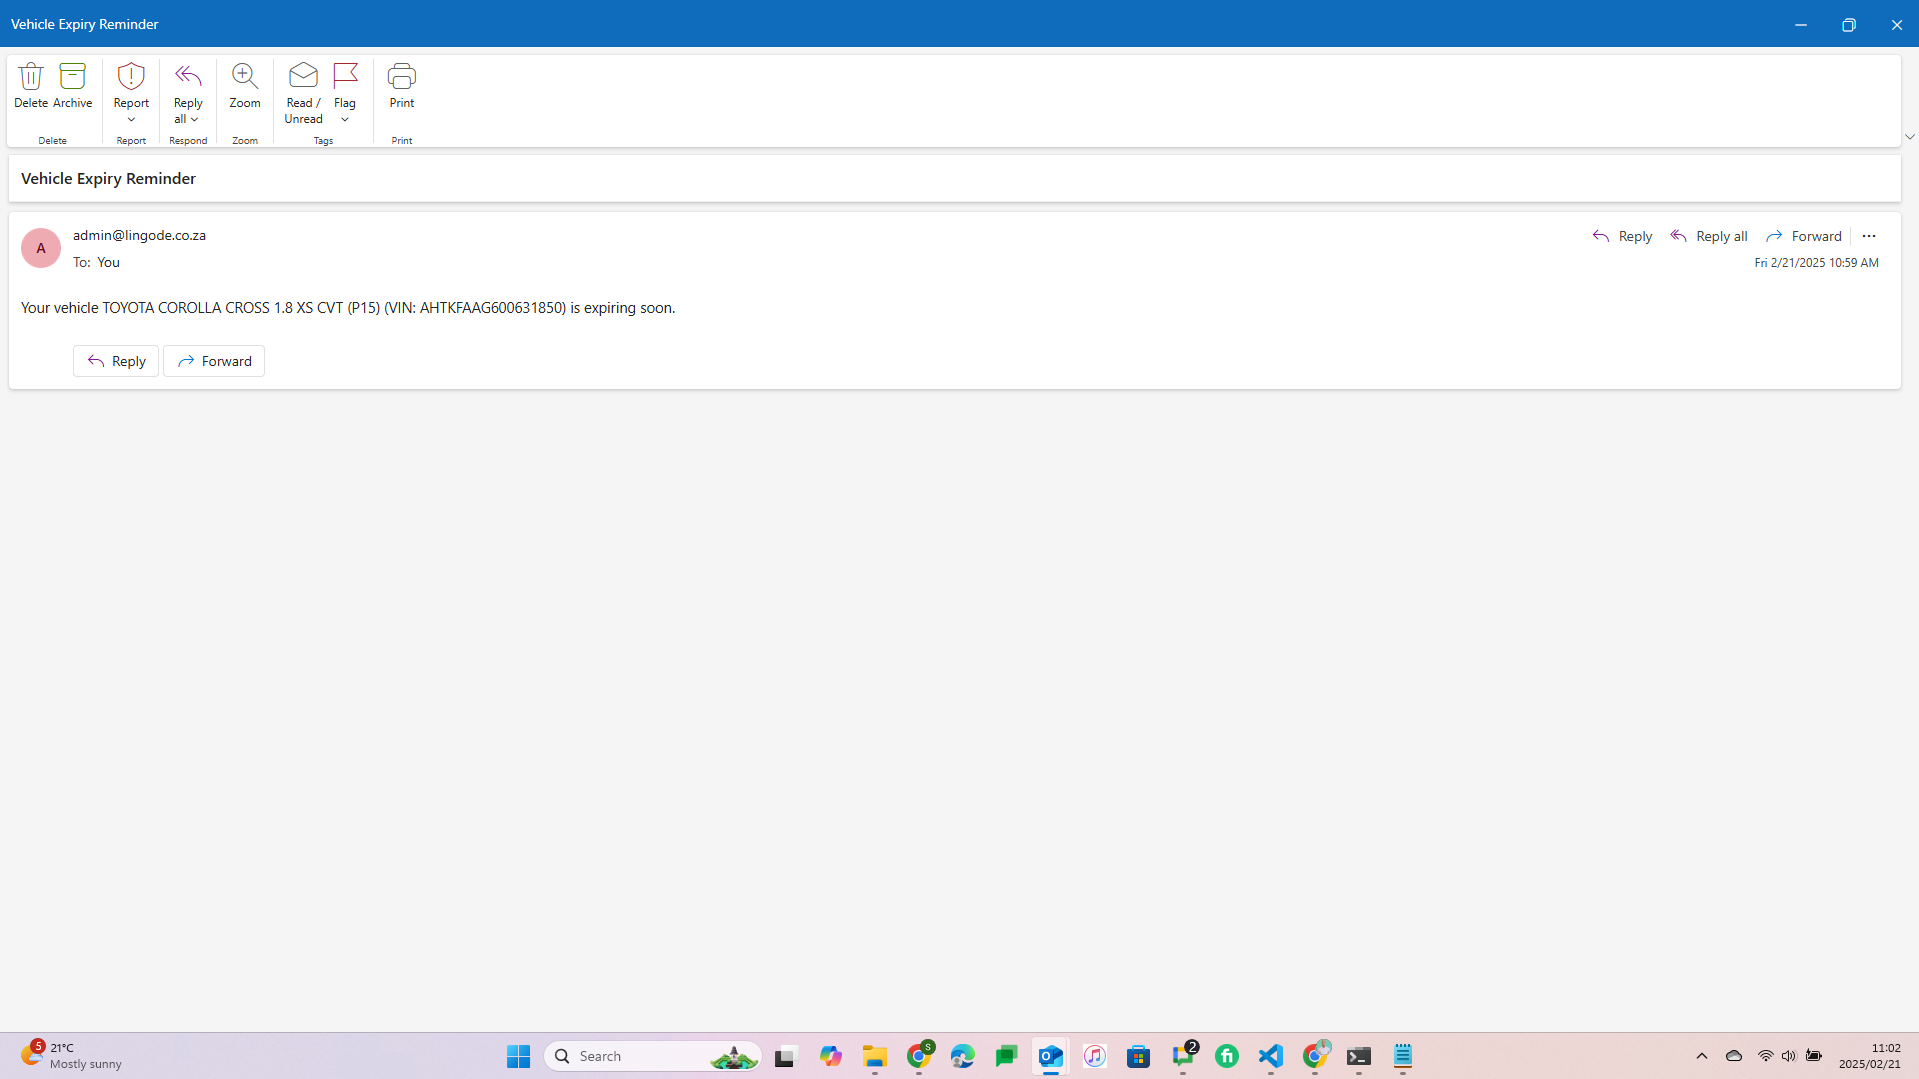
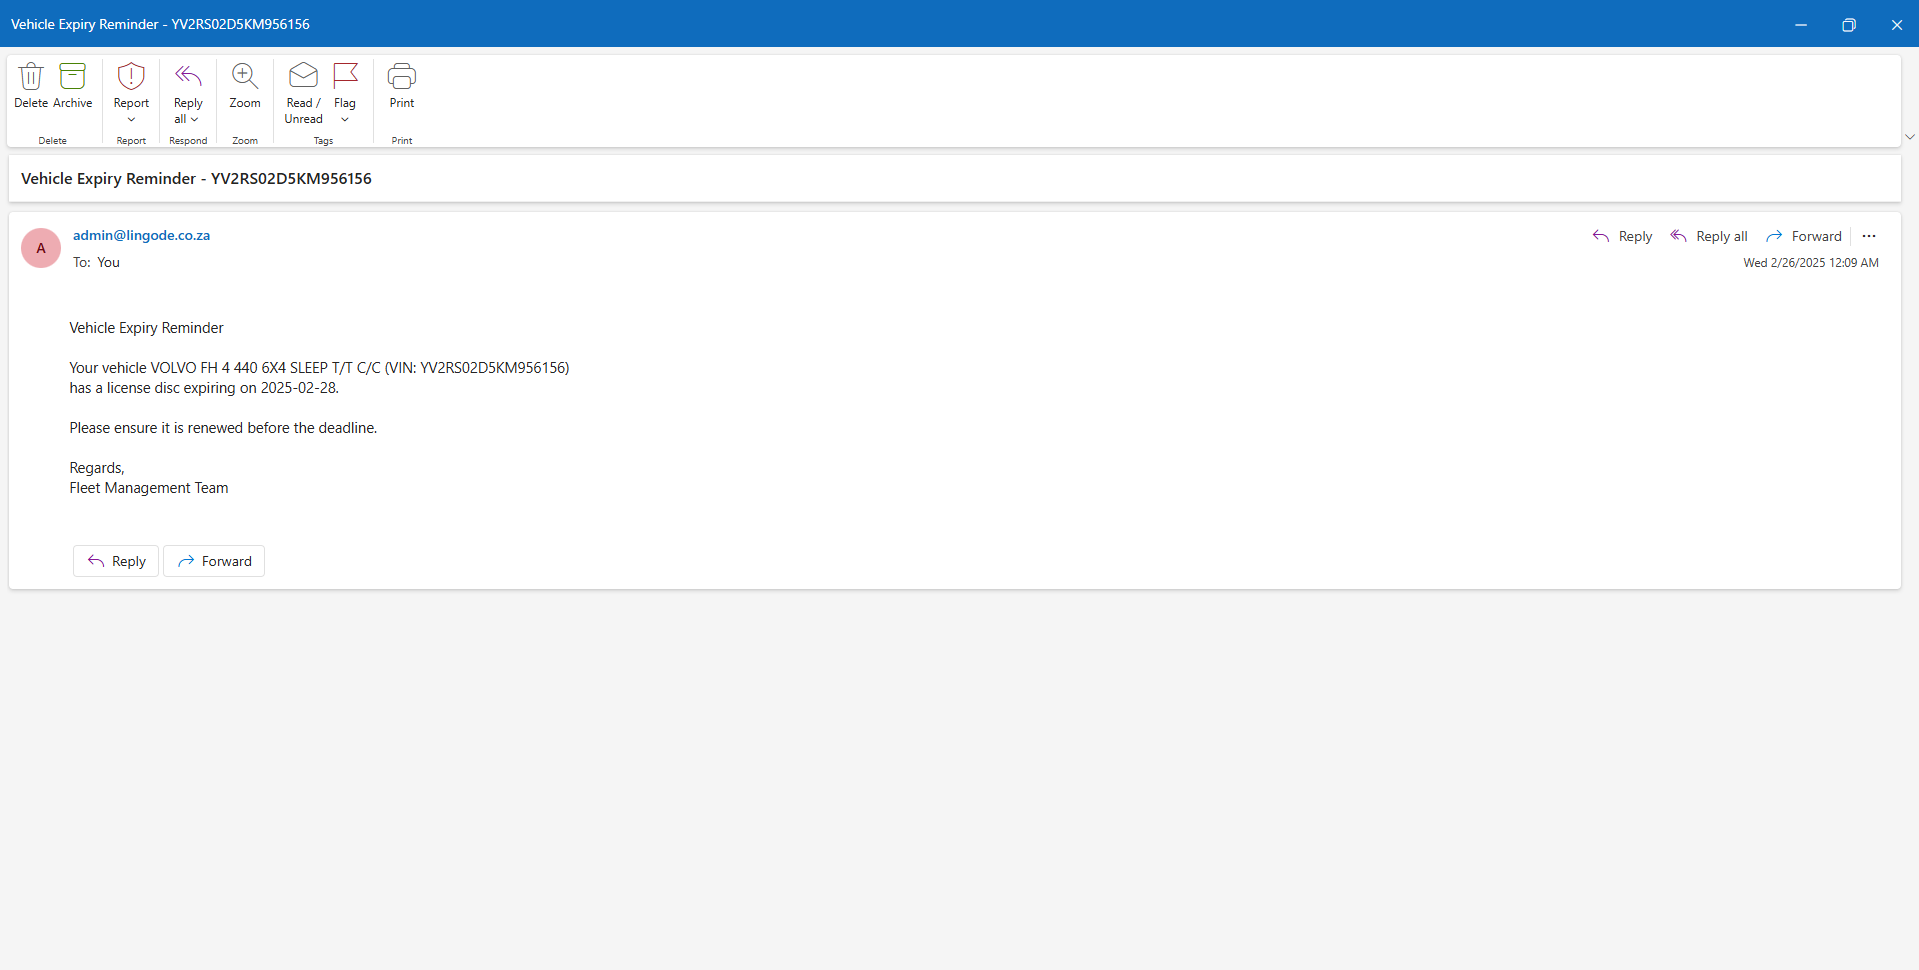
Enhanced reminder email

diff --git a/fleet_manager/tasks.py b/fleet_manager/tasks.py
@@ -1,21 +1,35 @@
 from django.utils.timezone import now
 from django_q.tasks import schedule
 from django.core.mail import send_mail
-from fleet_manager.models import Asset
+from fleet_manager.models import Asset, LicensingDetails
 from datetime import timedelta
 
 
 def send_vehicle_expiry_reminder():
-    # Get assets expiring in 7 days
-    expiring_assets = Asset.objects.filter(
-        purchasedetails__disc_expiry_date__isnull=False,
-        purchasedetails__disc_expiry_date__lte=now() + timedelta(days=30),
-    )
+    # Get assets with licensing details expiring in 30 days
+    expiring_licenses = LicensingDetails.objects.filter(
+        disc_expiry_date__isnull=False,
+        disc_expiry_date__lte=now() + timedelta(days=30),
+    ).select_related("asset")  # Preload asset data to optimize queries
 
-    for asset in expiring_assets:
+    for license_detail in expiring_licenses:
+        asset = license_detail.asset  # Get related asset
+        expiry_date = license_detail.disc_expiry_date.strftime("%Y-%m-%d")  # Format date
+
         send_mail(
-            subject="Vehicle Expiry Reminder",
-            message=f"Your vehicle {asset.make} {asset.model} (VIN: {asset.vin}) is expiring soon.",
+            subject=f"Vehicle Expiry Reminder - {asset.vin}",
+            message=(f"""
+            Vehicle Expiry Reminder
+
+            Your vehicle {asset.make} {asset.model} (VIN: {asset.vin})  
+            has a license disc expiring on {expiry_date}.  
+
+            Please ensure it is renewed before the deadline.
+
+            Regards,  
+            Fleet Management Team
+            """
+            ),
             from_email="admin@lingode.co.za",
             recipient_list=["info@lingode.co.za"],
             fail_silently=False,
@@ -26,5 +40,6 @@ def send_vehicle_expiry_reminder():
 schedule(
     "fleet_manager.tasks.send_vehicle_expiry_reminder",
     schedule_type="D",  # Run Daily
-    # next_run=now() + timedelta(minutes=1),  # First run in 1 minute for testing
+    repeats=-1,  # Repeat indefinitely
+    next_run=now().replace(hour=6, minute=0, second=0, microsecond=0)  # Run daily at 6 AM
 )
